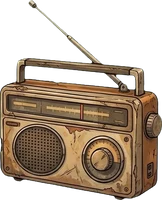
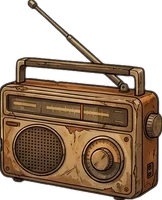
Rex, la radio et les cartes aux couleurs de la pièce

diff --git a/site/sw.js b/site/sw.js
@@ -4,7 +4,7 @@
    IMPORTANT : à chaque mise à jour du jeu, changer VERSION (sinon les
    téléphones garderaient l'ancienne copie).
    ===================================================================== */
-var VERSION = "survival-20261112-1029";
+var VERSION = "survival-20261112-1038";
 var FICHIERS = [
   "./",
   "index.html",

diff --git a/CLAUDE.md b/CLAUDE.md
@@ -392,6 +392,7 @@ Salon version 4 branchée (2026-11-12) : image Gemini de Léo + Maman dessinés 
 Emma sur le canapé (2026-11-12, image ChatGPT : `images/sources/emma-canape-chatgpt.webp`, salon entièrement redessiné donc pas de découpe par différence) : découpée le long de son contour noir (seuil < 36, limite tracée à la main, fond rempli depuis l'extérieur, ouverture 7 px pour retirer les traits du canapé), ramenée à 255 px de haut → `images/personnages/canape-emma.webp` (490, 375, 579, 630). Pour voir ses pieds derrière la lanterne, la table est maintenant 95 px plus en avant (`TABLE_SALON` 348, 606, 671, 786) ; sur PC on n'en voit que le plateau. Zone « Histoire » et cartes déplacées avec elle
 Scène du siphon (2026-11-12, ChatGPT) : `images/siphon.webp` (1376 × 768, rue de banlieue au crépuscule, voiture abandonnée, tuyau vers deux jerricans, zombies dans la brume ; source `images/sources/siphon-voiture.jpg`) en bandeau de « Une voiture abandonnée » et du mini-jeu ; sur PC, fond de la fenêtre posée sur la scène (`poserDansScene`). Toutes les images demandées le 2026-11-12 sont faites
 Recrues au salon (2026-11-12, image ChatGPT `images/sources/yanis-nora-salon-chatgpt.webp`, découpe au contour avec limite à la main et « trous » retirés après coup, sans quoi le remplissage passait dans le jean) : Yanis avec son fauteuil (`images/personnages/fauteuil-yanis.webp`, ×0,84, recouvre le fauteuil du salon) et Nora (`canape-nora.webp`, 280 px, place de Léo). Dans `PLACES_CANAPE` ; `auSalon` ne montre une recrue que si le membre d'origine qui a la même place (`LIT_DE`) est mort. Sam (`canape-sam.webp`, 270 px, place d'Emma) et Inès (`canape-ines.webp`, 283 px, place de Maman) ajoutés ensuite (une image ChatGPT chacun, `images/sources/sam|ines-salon-chatgpt.webp` ; seuil du contour 60 pour Inès, sinon sa queue de cheval partait) : les 4 recrues ont leur place au salon
+Couleurs des objets posés au salon (2026-11-12, retour de Fabien « un peu ternes ») : `images/rex.webp`, `objet-radio.webp`, `objet-cartes.webp` harmonisés avec la pièce (luminosité −12 à −20 %, contraste +15 %, teinte chaude multipliée par (255, 214, 170) à 30-40 %, fin contour brun foncé ajouté autour) ; originaux gardés dans `images/sources/*-avant-retouche.webp`
 Décor des assauts : la cour fortifiée (`piece-bastion-cour.webp`) sert de fond au combat pendant un assaut (ui.js, `openCombat`).
 Bilan de difficulté (2026-11-10, simulation après tous les ajouts) : Malin vit 85 jours (médiane, 10 % ≤ 68, 90 % ≤ 104, max 122), 96 % atteignent le jour 60, 79 % le jour 75, seulement 16 % le jour 100 ; Naïf 10 jours (1re mort au jour 5). Causes de mort de Malin : attaques de nuit, puis soif, puis faim. Assauts (2 membres, robot Auto, 200 essais) : bastion faible = 100 % de victoires ; remparts 5 + armurerie 3 + cible au jour 200 = 0 % (7 % avec gilets, casques, boucliers et camion au maximum) : courbe trop raide, à lisser. Jour d'accès aux clans : 100 jugé trop long.
 Réglages du 2026-11-10 (choix de Fabien : 30 jours) :
